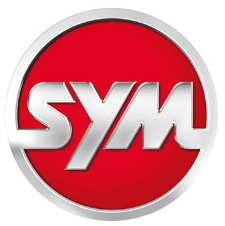
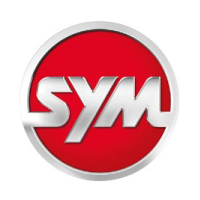
更新css還有圖片
黑白滑過會變色

diff --git a/css/cate_test1610.css b/css/cate_test1610.css
@@ -321,11 +321,27 @@ ul.hot-brand > li:last-child {
 
 ul.hot-brand >li img {
     width: 90%;
+    -webkit-filter: grayscale(100%); /* Chrome, Safari, Opera */
+    filter: grayscale(100%);
+    opacity: 0.7;
 }
 
 ul.hot-brand >li a {
     display: block;
     text-align: center;
+    transition: 0.3s all;
+    
+}
+
+ul.hot-brand >li a:hover {
+    margin-top:-2px;
+
+}
+
+ul.hot-brand >li a:hover img {
+    -webkit-filter: grayscale(0%); /* Chrome, Safari, Opera */
+    filter: grayscale(0%);
+    opacity: 1;
 }
 
 .hot-brand:before, .hot-brand:after {
